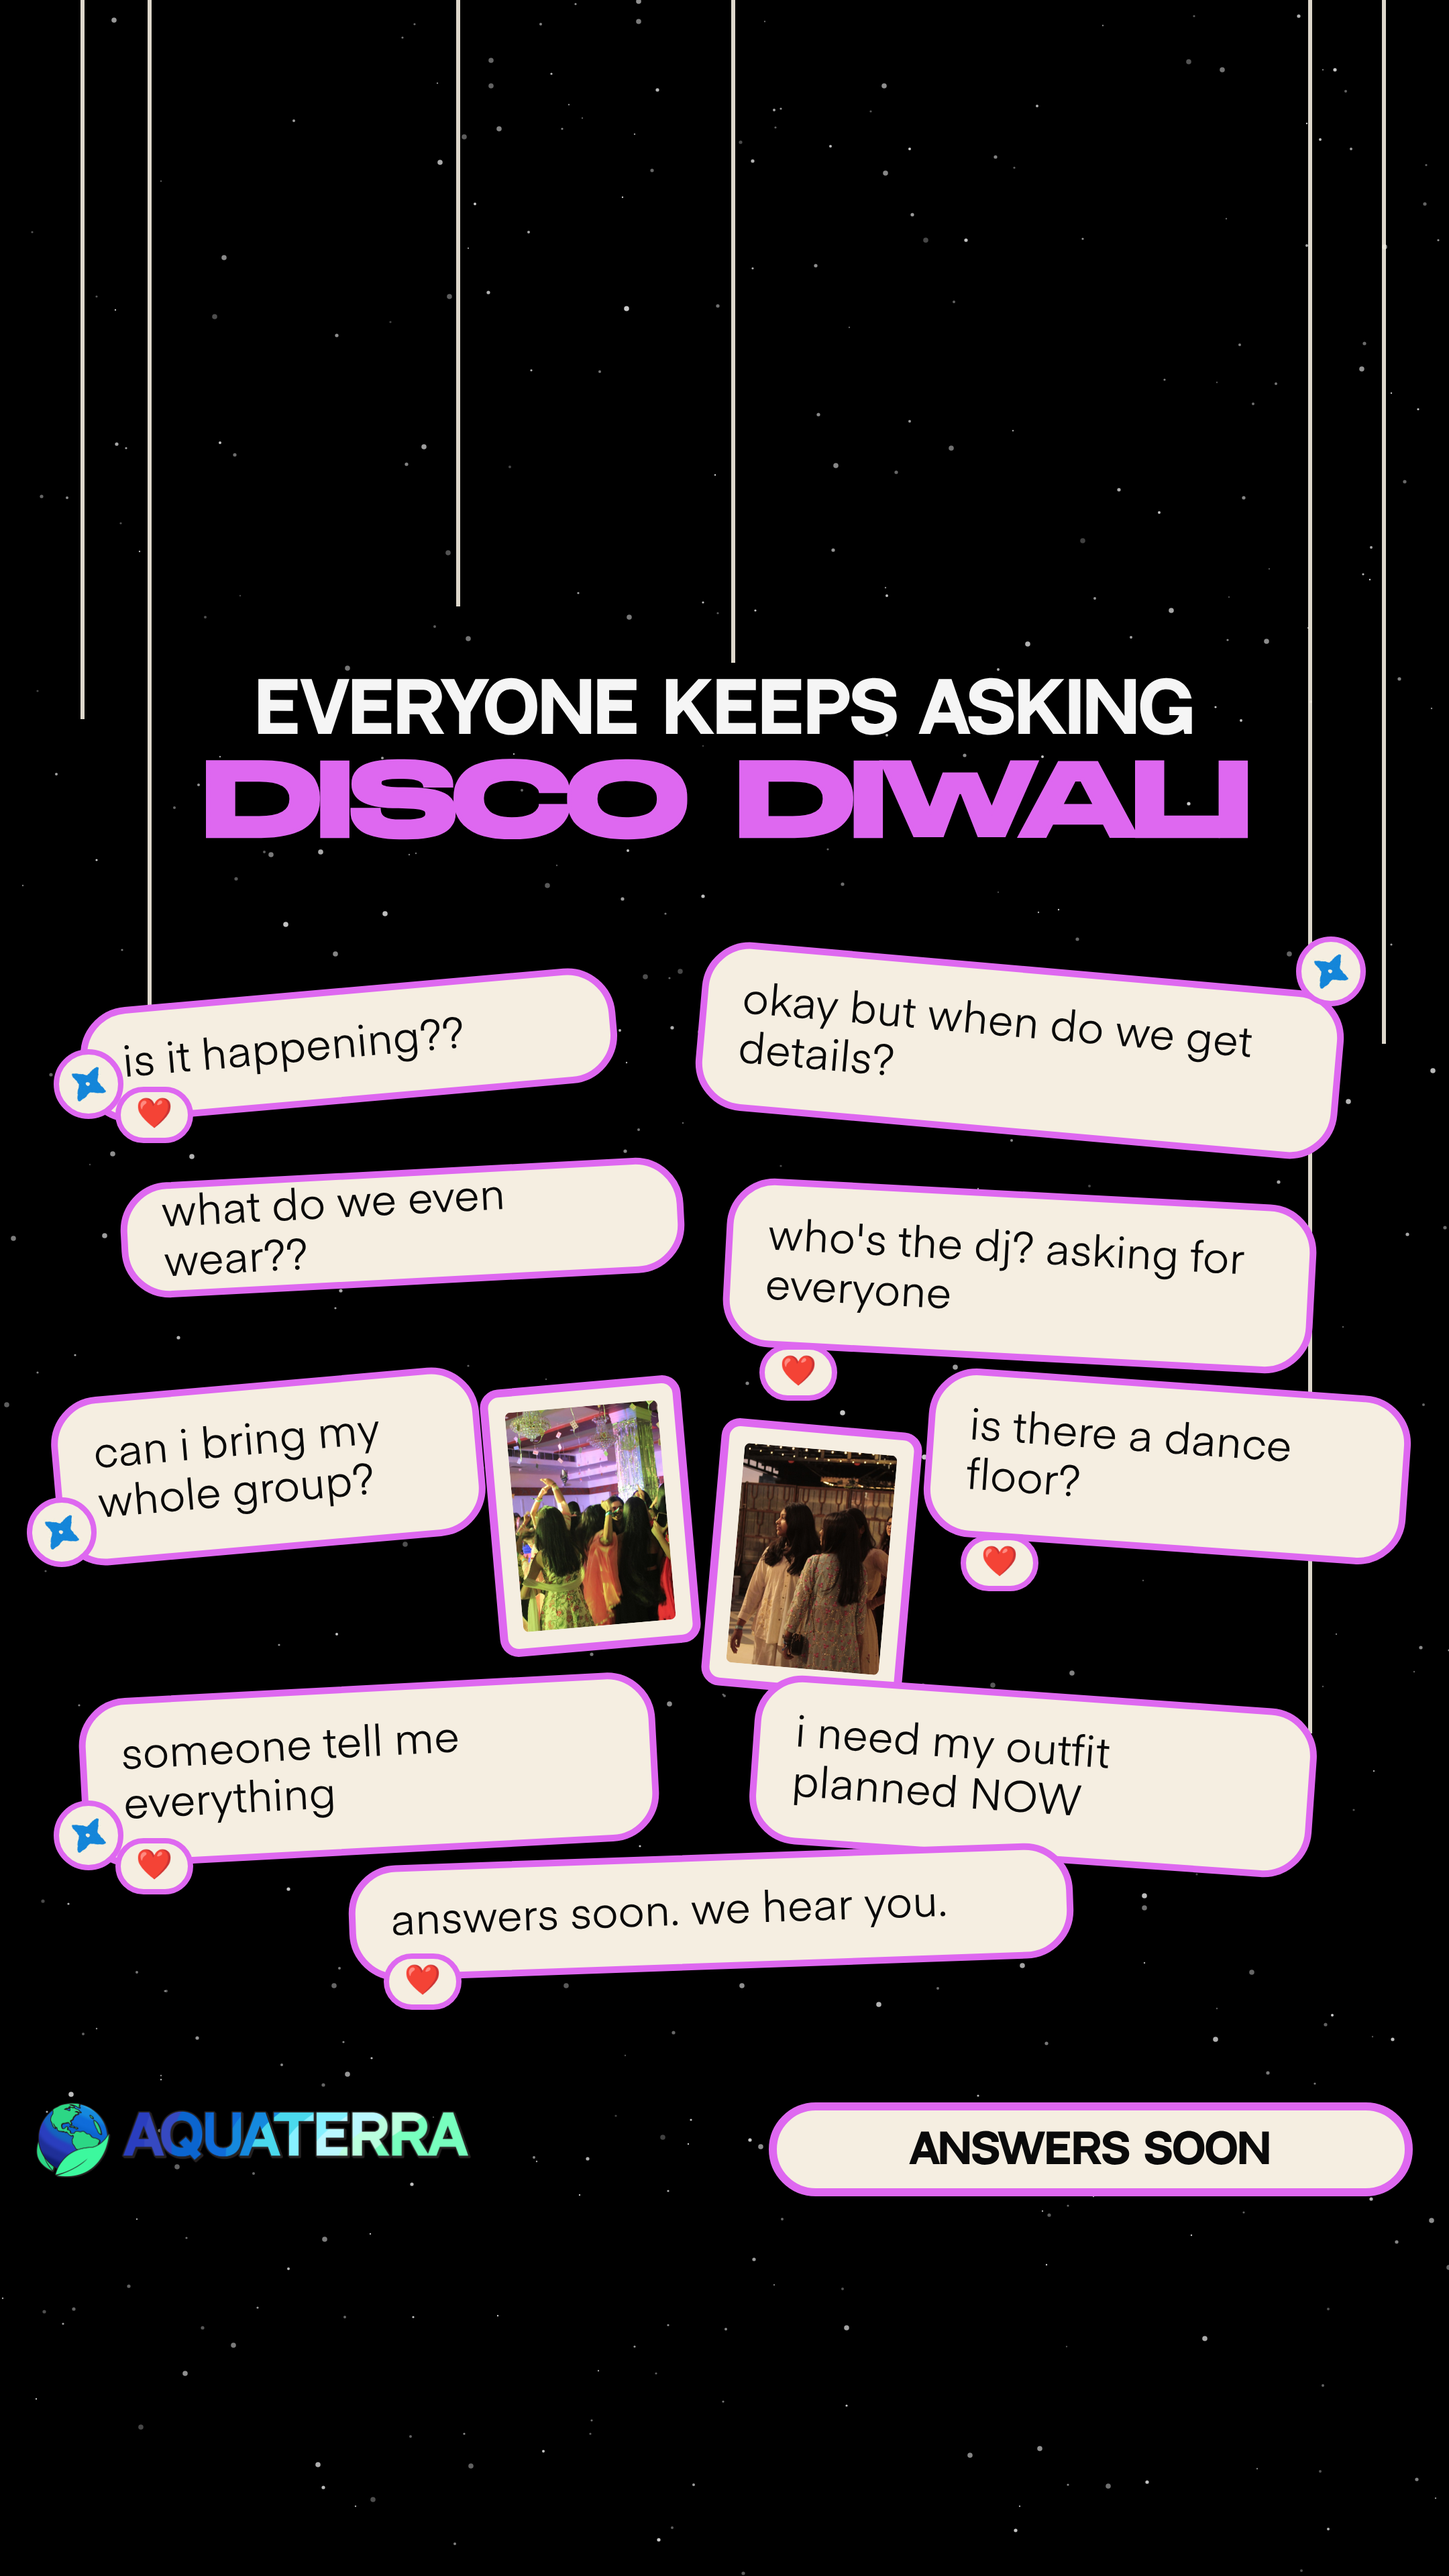
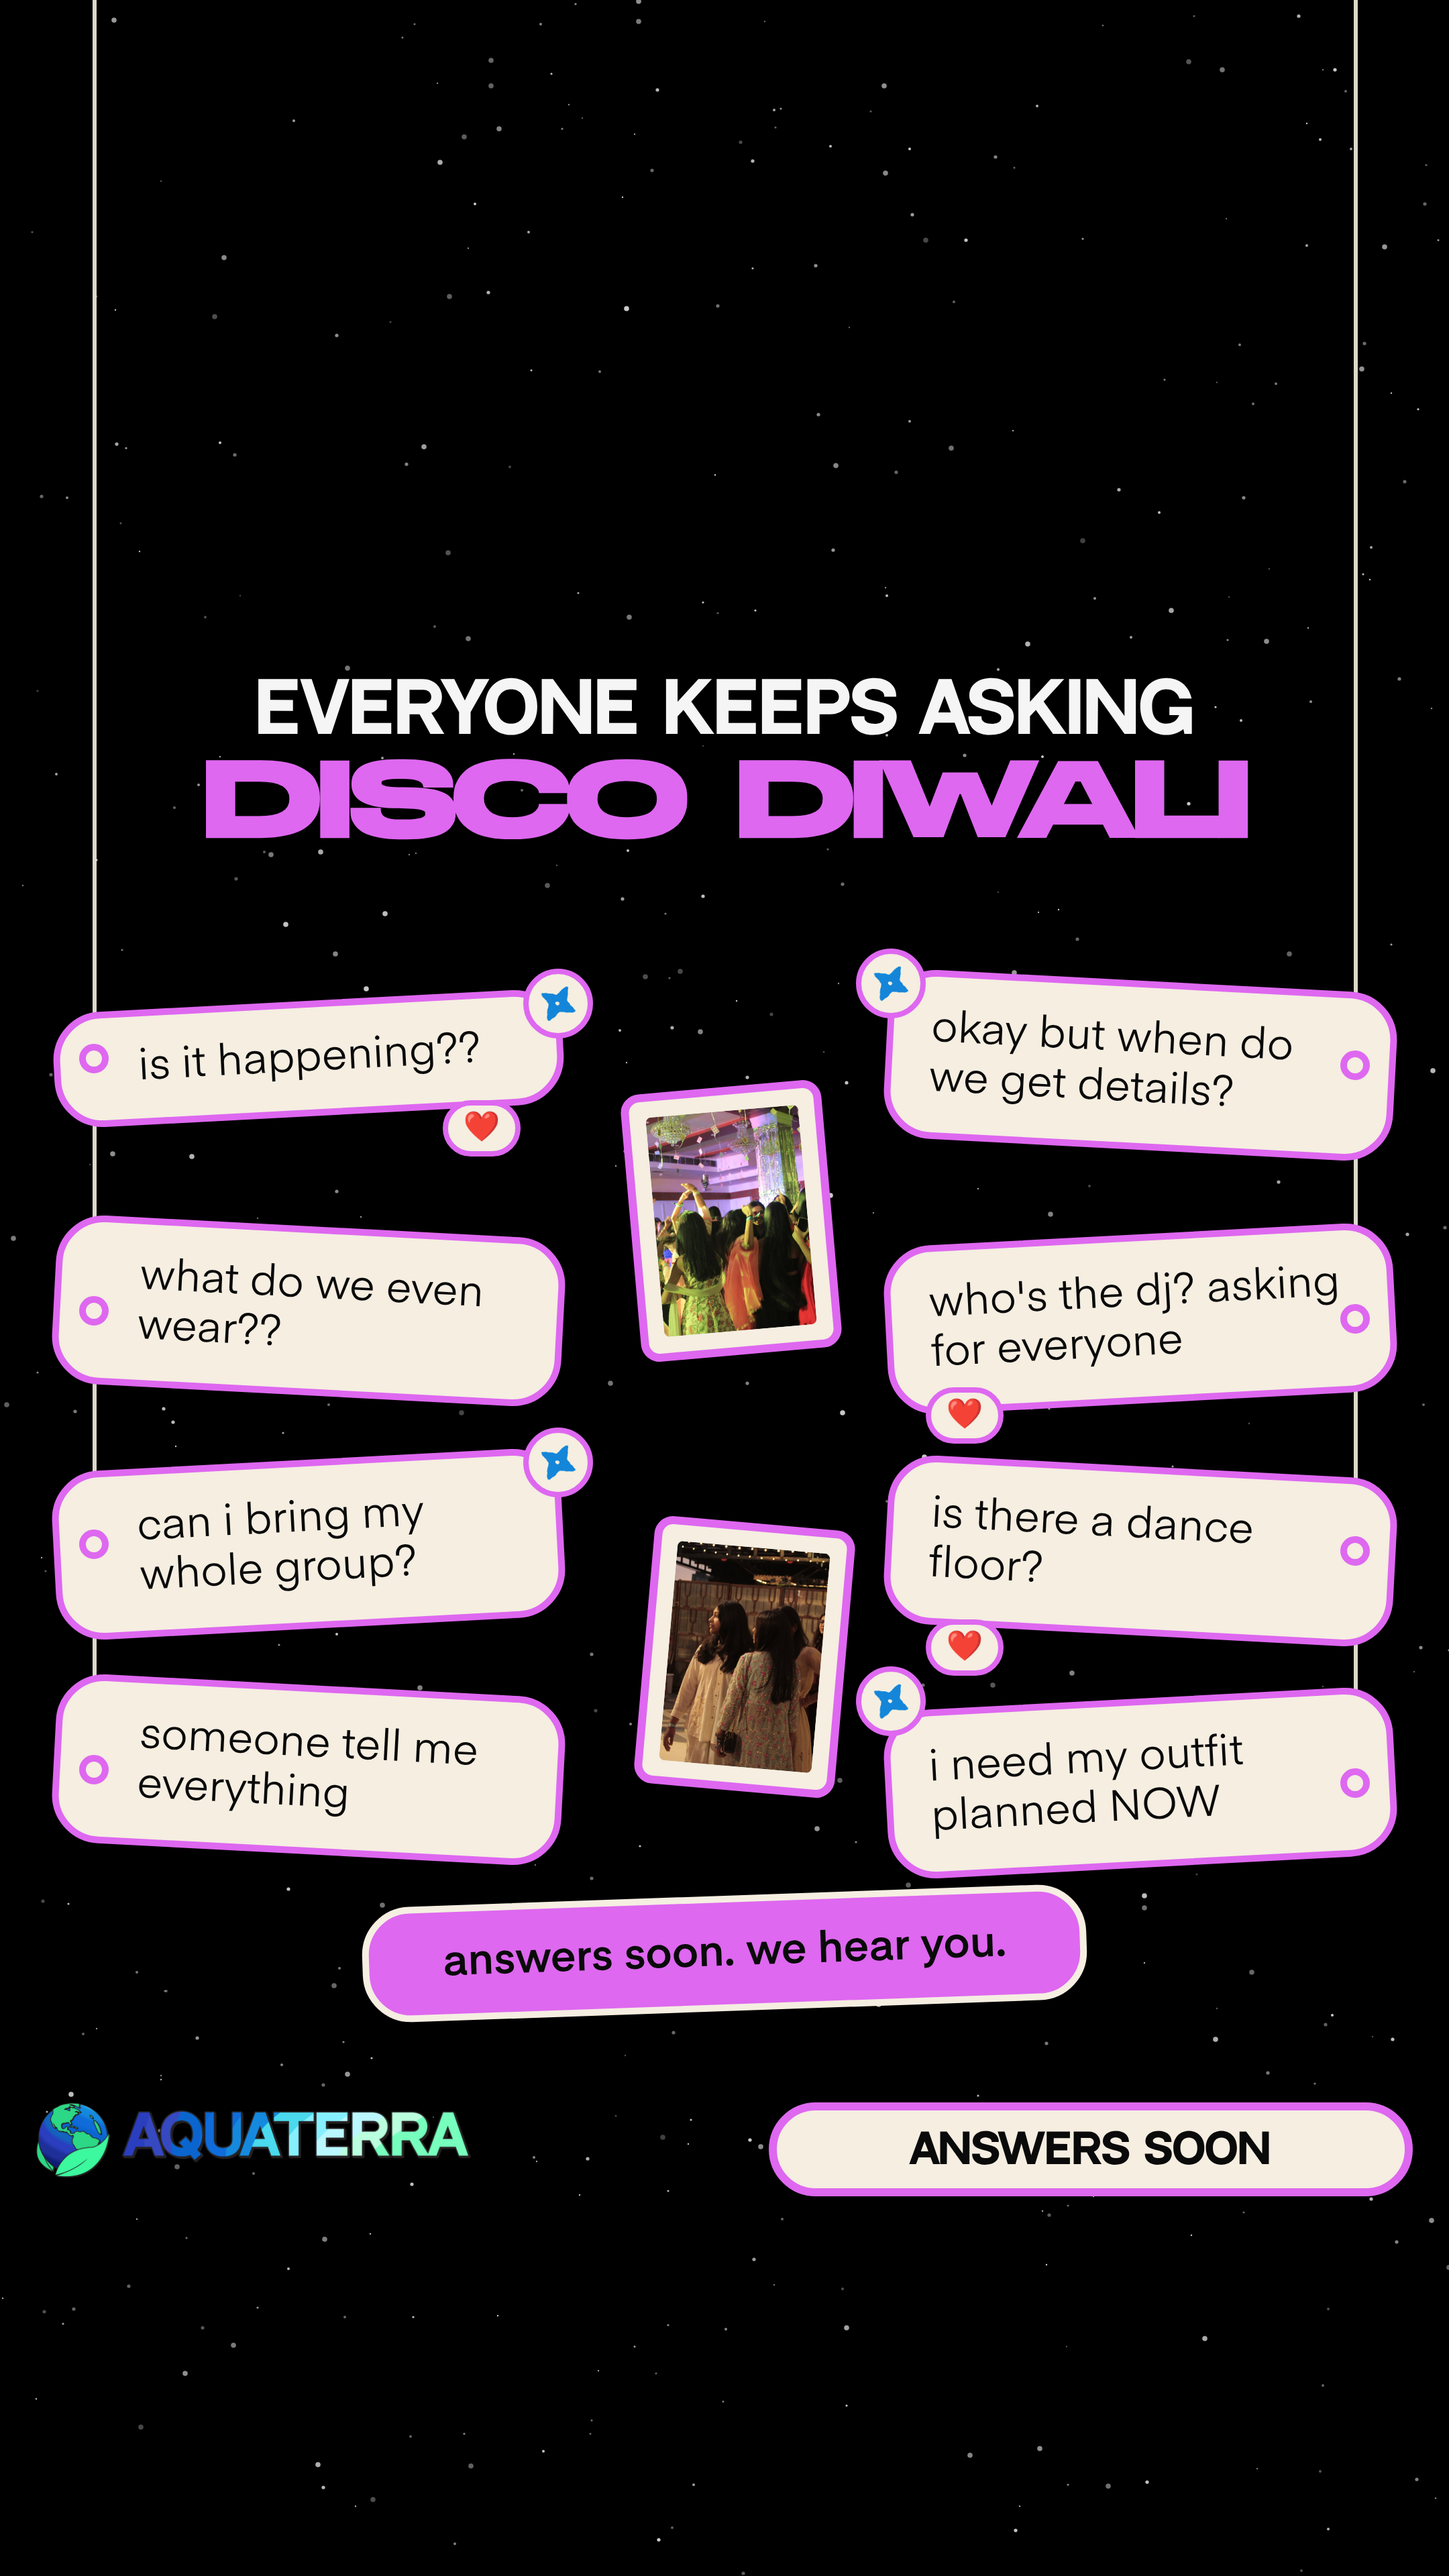
Chat post: two real strings with pins instead of random lines
Claude-Session: https://claude.ai/code/session_01FPyADAfvcX9LT1jBMzRpbG

Changed region(s): [[0.0, 0.0, 0.9926, 0.8125]]

diff --git a/scratchpad/tt_dd_chat_ask.py b/scratchpad/tt_dd_chat_ask.py
@@ -18,50 +18,62 @@ ORCHID, CTA_FILL, INK, WHITE, GROUND, GREEN = fc.ORCHID, fc.CTA_FILL, fc.INK, fc
 K, OFF = (1.05, 190) if STORY else (1.0, 0)
 Y = lambda y: round(OFF + y * K)
 
-STRINGS = [(60, 330), (110, 560), (340, 250), (545, 290), (975, 1050), (1030, 560)]   # (x, end y) in design space; the title column stays clear
-BUBBLES = [  # x, y, w, rot, text, heart, avatar
-    (60, 520, 400, -5, "is it happening??", True, True),
-    (520, 505, 480, 5, "okay but when do we get details?", False, True),
-    (90, 650, 420, -3, "what do we even wear??", False, False),
-    (540, 665, 440, 3, "who's the dj? asking for everyone", True, False),
-    (40, 800, 320, -5, "can i bring my whole group?", False, True),
-    (690, 800, 360, 4, "is there a dance floor?", True, False),
-    (60, 1015, 430, -3, "someone tell me everything", True, True),
-    (560, 1020, 420, 4, "i need my outfit planned NOW", False, False),
-    (260, 1135, 540, -2, "answers soon. we hear you.", True, False)]
-PHOTOS = [(365, 800, 150, 200, -5, "dance", "55% 35%"), (530, 830, 150, 200, 5, "group", "40% 40%")]
+SX = {"L": 70, "R": 1010}                  # the two strings the chat hangs from, outside the title's width so nothing crosses it
+BW = 380
+BUBBLES = [  # side, y, rot, text, heart, avatar
+    ("L", 530, -3, "is it happening??", True, True),
+    ("R", 515, 3, "okay but when do we get details?", False, True),
+    ("L", 690, 3, "what do we even wear??", False, False),
+    ("R", 695, -3, "who's the dj? asking for everyone", True, False),
+    ("L", 855, -3, "can i bring my whole group?", False, True),
+    ("R", 860, 3, "is there a dance floor?", True, False),
+    ("L", 1015, 3, "someone tell me everything", False, False),
+    ("R", 1025, -3, "i need my outfit planned NOW", False, True)]
+REPLY = (270, 1165, 540, -2, "answers soon. we hear you.")   # AQ's own answer, orchid, not on a string
+PHOTOS = [(470, 590, 150, 200, -5, "dance", "55% 35%"), (480, 900, 150, 200, 5, "group", "40% 40%")]
 
 
 async def main():
     s = fc.Slide(1, 701)
     im, src = fc.tt.crop_to_alpha("shuriken.png")
-    # strings (behind everything)
-    for i, (x, ye) in enumerate(STRINGS):
-        s.add(f'<div style="position:absolute;left:{x}px;top:0;width:3px;height:{Y(ye)}px;background:{CTA_FILL};opacity:.9;z-index:2"></div>')
+    ys = [Y(y) for _, y, *_ in BUBBLES]
+    for side, x in SX.items():                    # one string per side, from the top edge down to just past its last pin
+        last = max(Y(y) for sd, y, *_ in BUBBLES if sd == side) + 70
+        s.add(f'<div style="position:absolute;left:{x - 1}px;top:0;width:3px;height:{last}px;background:{CTA_FILL};opacity:.9;z-index:2"></div>')
     ty = Y(300)
     yb, _ = await s.title("EVERYONE KEEPS ASKING", "DISCO DIWALI", ty, w1=700, w2=780)
     s.allow("t1", "t2")
-    for i, (x, y, w, rot, txt, heart, av) in enumerate(BUBBLES):
+    for i, (side, y, rot, txt, heart, av) in enumerate(BUBBLES):
+        w = BW
+        x = 40 if side == "L" else 1040 - w
         lines = max(1, math.ceil(len(txt) * 16.5 / (w - 56)))
         h = lines * 40 + 46
         yy = Y(y)
         s.add(f'<div class="measure" data-tag="b{i}" style="position:absolute;left:{x}px;top:{yy}px;width:{w}px;height:{h}px;box-sizing:border-box;transform:rotate({rot}deg);border:5px solid {ORCHID};border-radius:36px;background:{CTA_FILL};'
-              f'display:flex;align-items:center;padding:0 26px;font-family:var(--e);font-size:32px;line-height:1.15;color:{INK};z-index:6">{txt}</div>')
+              f'display:flex;align-items:center;padding:0 26px 0 {58 if side == 'L' else 28}px;font-family:var(--e);font-size:32px;line-height:1.15;color:{INK};z-index:6">{txt}</div>')
         s.el(f"b{i}", *rb(x, yy, w, h, rot))
+        px, py = SX[side], yy + h / 2                 # the pin where the string meets the bubble
+        s.add(f'<div style="position:absolute;left:{px - 11}px;top:{py - 11}px;width:22px;height:22px;box-sizing:border-box;border:5px solid {ORCHID};border-radius:50%;background:{CTA_FILL};z-index:7"></div>')
         if heart:
-            hx, hy = x + 26, yy + h - 12
-            s.add(f'<div class="measure" data-tag="h{i}" style="position:absolute;left:{hx}px;top:{hy}px;width:58px;height:42px;box-sizing:border-box;border:4px solid {ORCHID};border-radius:999px;background:{CTA_FILL};display:flex;align-items:center;justify-content:center;font-size:22px;z-index:8">❤</div>')
+            hx, hy = (x + w - 90, yy + h - 12) if side == "L" else (x + 30, yy + h - 12)
+            s.add(f'<div class="measure" data-tag="h{i}" style="position:absolute;left:{hx}px;top:{hy}px;width:58px;height:42px;box-sizing:border-box;border:4px solid {ORCHID};border-radius:999px;background:{CTA_FILL};display:flex;align-items:center;justify-content:center;font-size:22px;z-index:8">\u2764\ufe0f</div>')
             s.el(f"h{i}", hx, hy, 58, 42); s.allow(f"b{i}", f"h{i}")
         if av:
-            ax, ay = (x + w - 34, yy - 22) if i % 2 else (x - 20, yy + h - 40)
+            ax, ay = (x + w - 30, yy - 24) if side == "L" else (x - 22, yy - 24)
             s.add(f'<div class="measure" data-tag="a{i}" style="position:absolute;left:{ax}px;top:{ay}px;width:52px;height:52px;box-sizing:border-box;border:4px solid {ORCHID};border-radius:50%;background:{CTA_FILL};display:flex;align-items:center;justify-content:center;z-index:8">'
                   f'<img src="{src}" style="width:30px"></div>')
             s.el(f"a{i}", ax, ay, 52, 52); s.allow(f"b{i}", f"a{i}")
+    rx, ry, rw, rrot, rtxt = REPLY
+    rh = 86
+    s.add(f'<div class="measure" data-tag="reply" style="position:absolute;left:{rx}px;top:{Y(ry)}px;width:{rw}px;height:{rh}px;box-sizing:border-box;transform:rotate({rrot}deg);border:5px solid {CTA_FILL};border-radius:36px;background:{ORCHID};'
+          f'display:flex;align-items:center;justify-content:center;font-family:var(--e);font-weight:700;font-size:32px;color:{INK};z-index:6">{rtxt}</div>')
+    s.el("reply", *rb(rx, Y(ry), rw, rh, rrot))
     for j, (x, y, w, h, rot, key, pos) in enumerate(PHOTOS):
         fc.photo_card(s, f"ph{j}", key, x, Y(y), w, h, rot, pos, z=5)
     s.footer(cta="ANSWERS SOON")
-    for i in range(len(BUBBLES)):                      # overlapping tilted bubbles touch their neighbours' bounding boxes; the looking gate judges them
+    for i in range(len(BUBBLES)):                      # tilted bubbles can touch neighbours' bounding boxes; the looking gate judges them
         for j in range(i + 1, len(BUBBLES)): s.allow(f"b{i}", f"b{j}")
+        s.allow(f"b{i}", "reply")
     for i in range(len(BUBBLES)):
         for j in range(len(PHOTOS)): s.allow(f"b{i}", f"ph{j}")
     out = "out/collaterals/dd_chat_ask" + ("_story" if STORY else "") + ".png"
